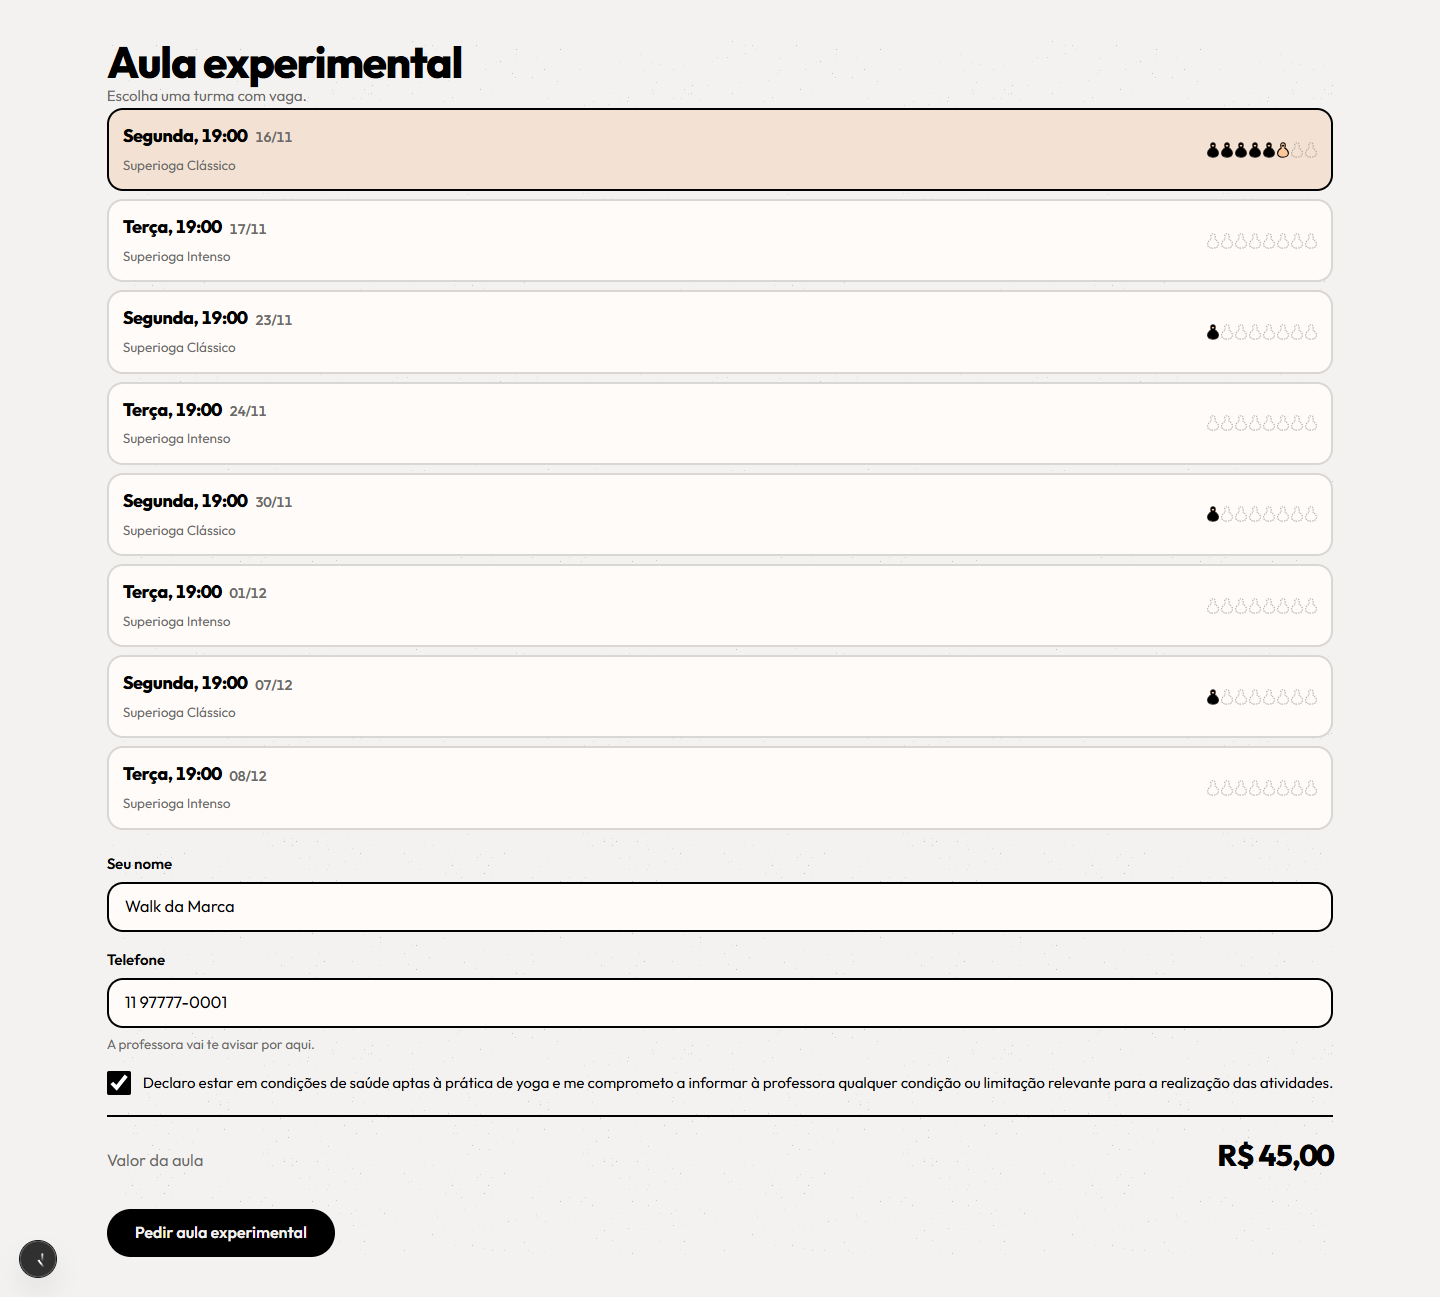
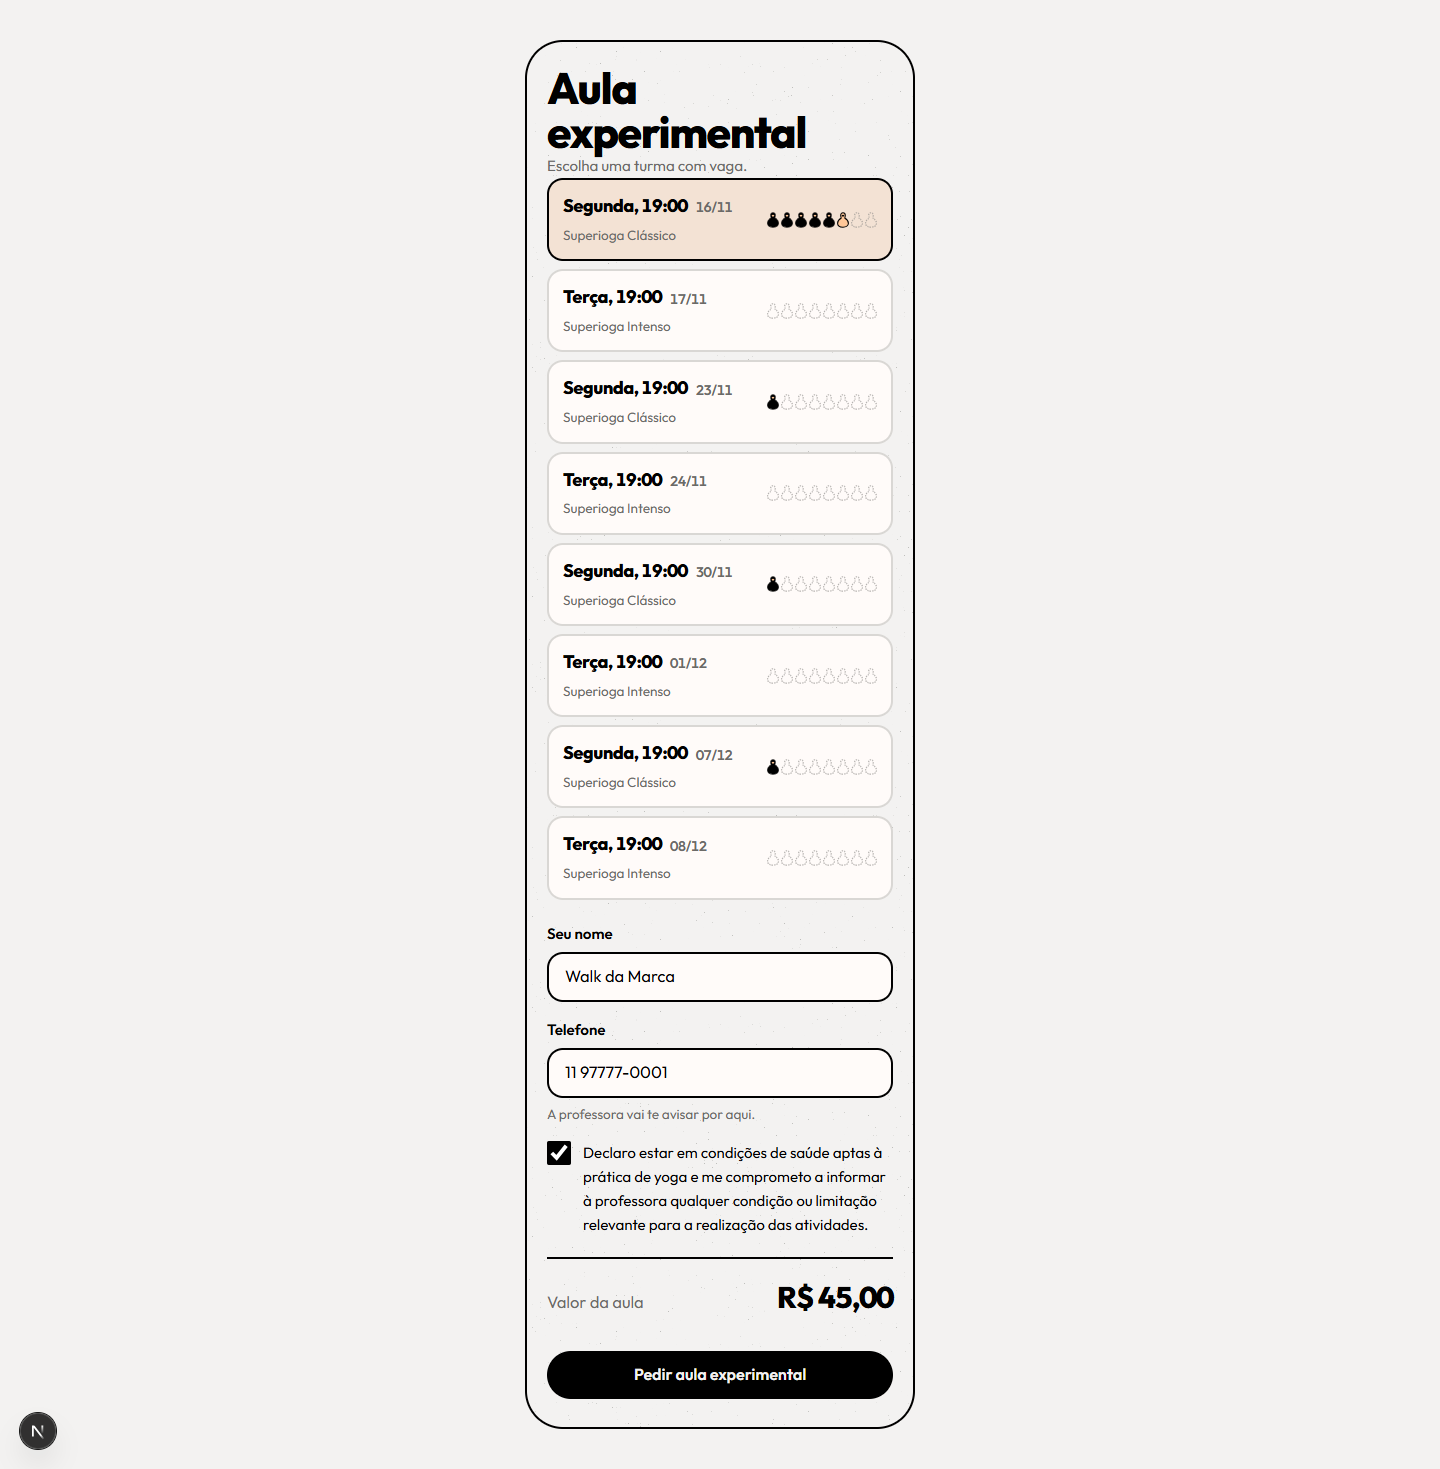
fix(site): match the guide card, vacancy count and slot label

diff --git a/src/app/(admin)/grade/booking-forms.tsx b/src/app/(admin)/grade/booking-forms.tsx
@@ -100,6 +100,14 @@ const SLOT_BASE =
 const SLOT_IDLE = `${SLOT_BASE} border-[var(--linha)] bg-[var(--pena)] hover:border-[var(--preto)]`;
 const SLOT_PRESSED = `${SLOT_BASE} border-[var(--preto)] bg-[var(--pessego)]`;
 
+/** O slot do guia mostra o tipo curto ("Clássico"/"Intenso"), nao o nome inteiro. */
+function shortClassName(name: string): string {
+  const match = name.match(/(cl[áa]ssico|intenso)$/i);
+  if (!match) return name;
+  const kind = match[1].toLowerCase();
+  return kind.charAt(0).toUpperCase() + kind.slice(1);
+}
+
 /** "19:00" vira "19h"; "19:30" vira "19h30" (voz do guia). */
 function hourLabel(time: string): string {
   const [hour, minute] = time.split(":");
@@ -208,8 +216,8 @@ export function GradeBoard({
                                 : SLOT_IDLE
                             }
                           >
-                            <span className="truncate text-[12.5px] font-extrabold tracking-[-0.01em]">
-                              {occurrence.classTypeName}
+                            <span className="truncate text-[13.5px] font-extrabold tracking-[-0.01em]">
+                              {shortClassName(occurrence.classTypeName)}
                             </span>
                             <VacancyDucks
                               fixed={occurrence.fixedCount}

diff --git a/src/app/(site)/page.tsx b/src/app/(site)/page.tsx
@@ -151,7 +151,7 @@ export default async function SiteHome() {
                 <div className="text-[14.5px] text-[color:var(--cinza)]">
                   {occurrence.classTypeName}
                 </div>
-                <div className="flex items-center justify-between gap-3">
+                <div className="flex flex-col gap-2">
                   <VacancyDucks
                     fixed={Math.max(
                       0,
@@ -159,7 +159,7 @@ export default async function SiteHome() {
                     )}
                     size="md"
                   />
-                  <span className="text-[13.5px] font-semibold text-[color:var(--cinza)]">
+                  <span className="text-[14px] font-semibold">
                     {occurrence.availableSpots === 1
                       ? "1 vaga"
                       : `${occurrence.availableSpots} vagas`}

diff --git a/src/app/(site)/experimental/page.tsx b/src/app/(site)/experimental/page.tsx
@@ -21,7 +21,9 @@ export default async function ExperimentalPage() {
 
   return (
     <main className="flex justify-center px-5 py-10">
-      <div className="celular">
+      {/* Cartao-desenho do guia (`.celular`): 390px, papel com manchinhas,
+          borda preta de 2px, canto de 38px. */}
+      <div className="w-[min(100%,390px)] rounded-[38px] border-2 border-[var(--preto)] bg-[var(--papel)] p-[24px_20px_28px] [background-image:var(--manchinhas)]">
         <h1 className="mb-2.5 text-[44px] leading-[0.92] tracking-[-0.04em]">
           Aula experimental
         </h1>

diff --git a/src/app/(site)/experimental/experimental-form.tsx b/src/app/(site)/experimental/experimental-form.tsx
@@ -302,9 +302,12 @@ export function ExperimentalRequestForm({
           </b>
         </div>
 
-        <Button type="submit" variant="prim" disabled={pending || !complete}>
-          Pedir aula experimental
-        </Button>
+        {/* O guia desenha a acao principal ocupando a coluna do formulario. */}
+        <div className="[&>button]:w-full">
+          <Button type="submit" variant="prim" disabled={pending || !complete}>
+            Pedir aula experimental
+          </Button>
+        </div>
 
         {error && error.field === "form" ? (
           <p
